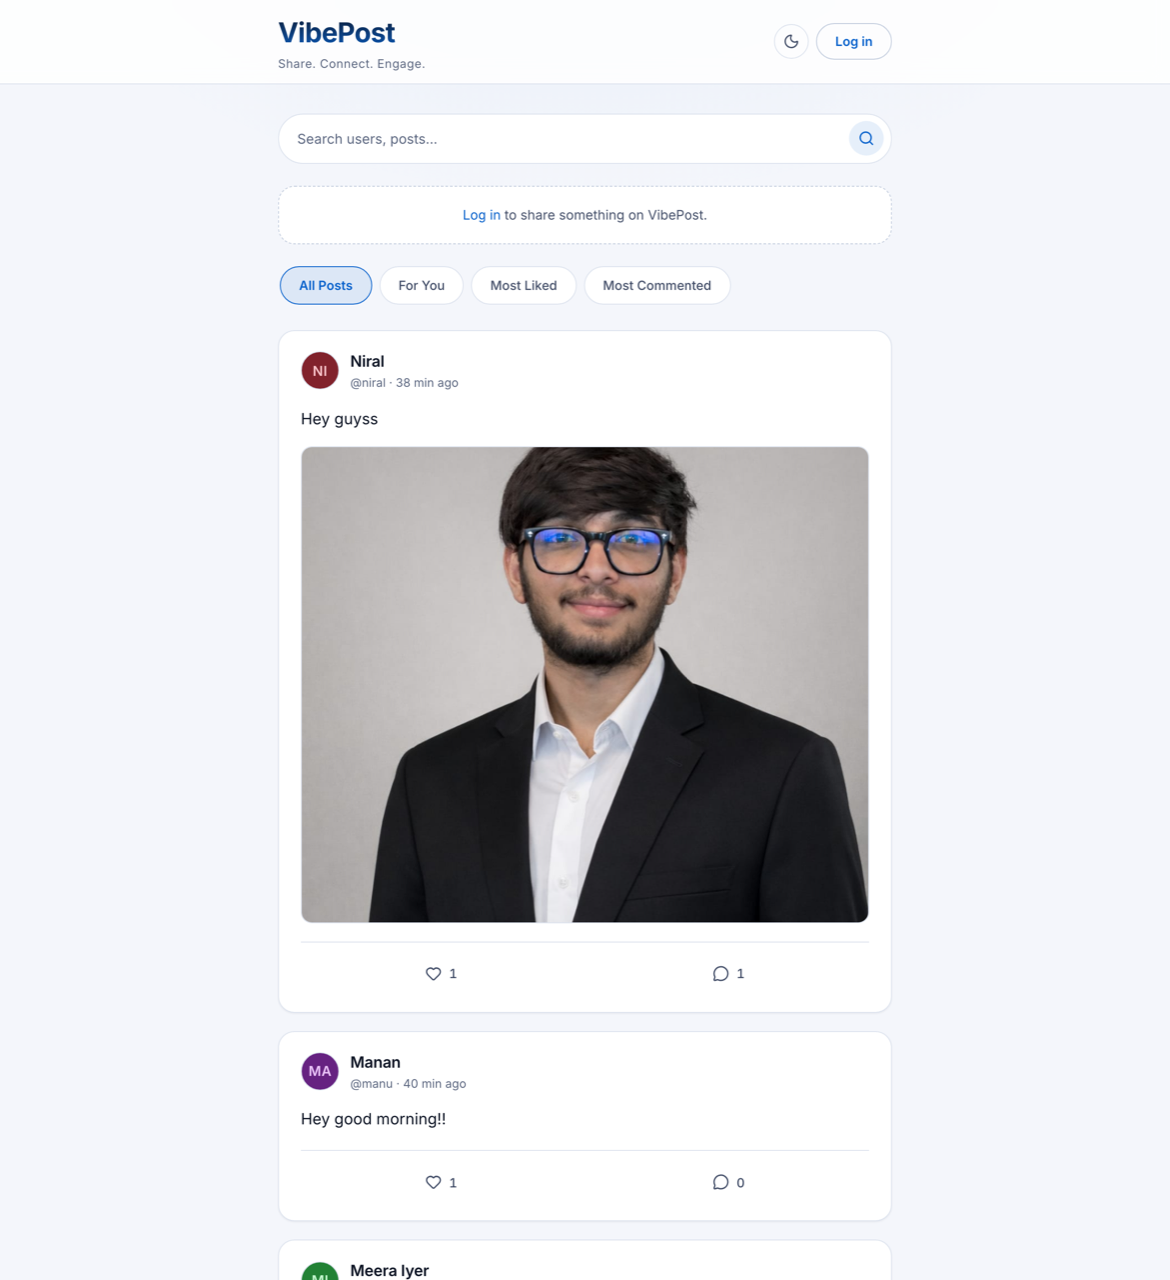
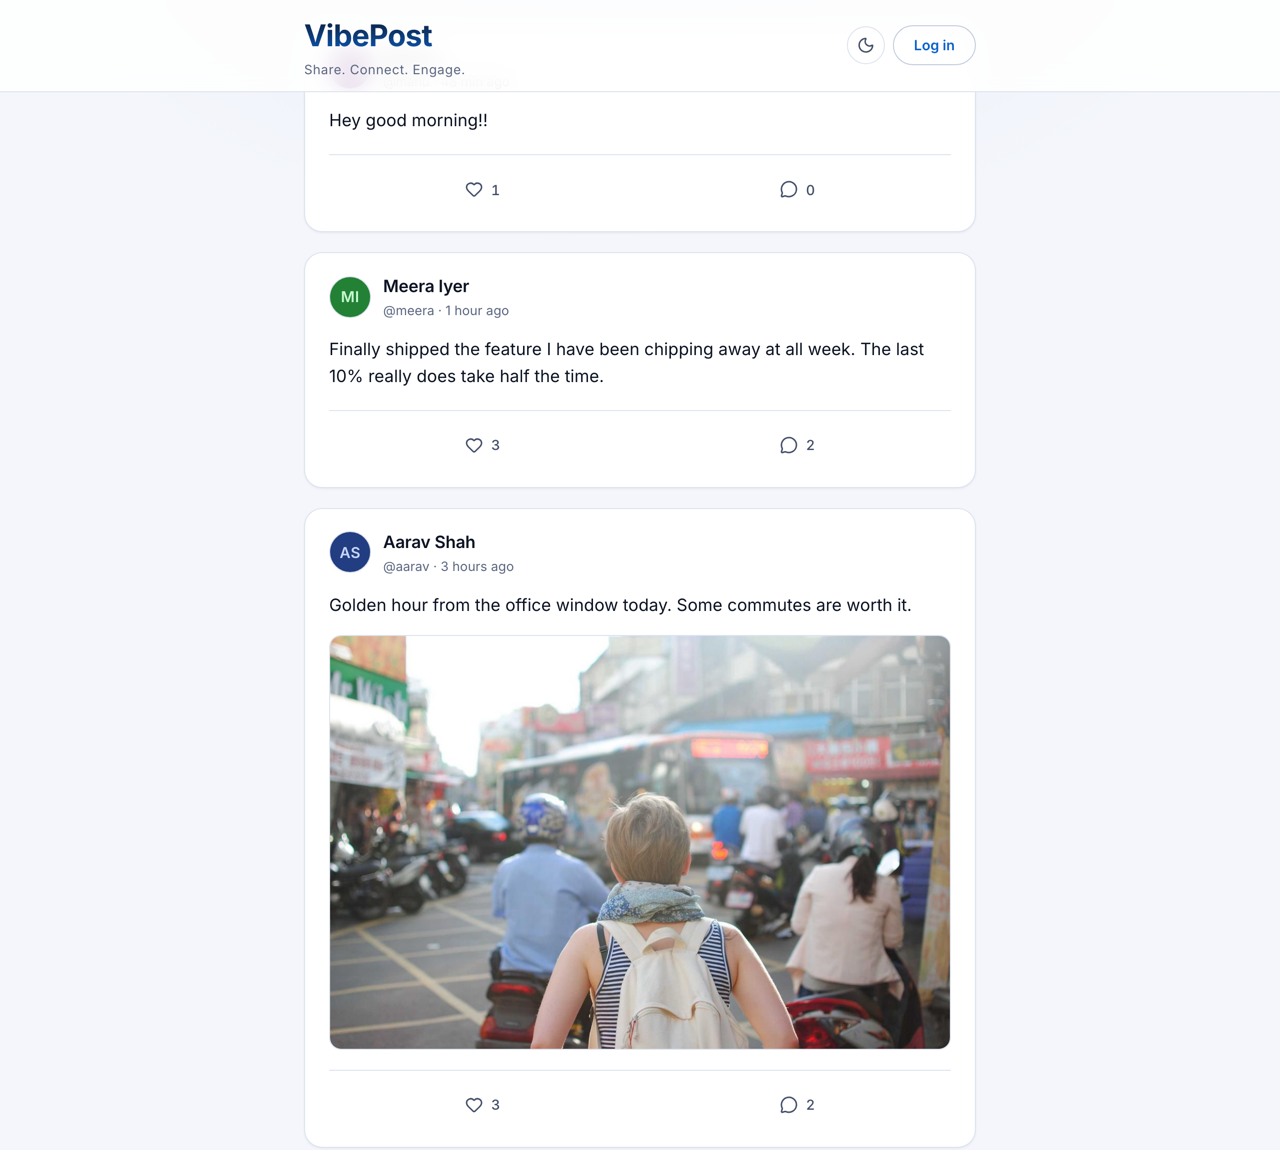
docs: cut the README down to one screenshot
Six screenshots pushed the actual content — setup, environment, deployment
— far down the page, and the first few opened on a single tall photo
rather than a feed.

One image now, showing several posts with their like and comment counts,
and the light theme tucked behind a details toggle for anyone curious.
The login, signup, mobile and duplicate feed captures are removed.

diff --git a/README.md b/README.md
@@ -19,23 +19,14 @@ posts, and comment on them.
 > The API runs on Render's free tier, which sleeps after inactivity. The first
 > request after an idle period can take up to a minute to wake it.
 
-![VibePost feed](docs/screenshots/feed-dark.png)
+![VibePost feed](docs/screenshots/feed.png)
 
----
-
-## Screenshots
-
-**Feed** — posts, engagement counts and relative timestamps.
-
-![Feed with posts](docs/screenshots/feed-posts.png)
-
-**Light theme** — the header toggle switches the whole palette.
+<details>
+<summary>Light theme</summary>
 
 ![Light theme](docs/screenshots/feed-light.png)
 
-| Mobile | Sign up |
-| --- | --- |
-| <img src="docs/screenshots/feed-mobile.png" width="300" alt="Mobile feed"> | <img src="docs/screenshots/signup.png" width="440" alt="Sign up screen"> |
+</details>
 
 ---
 
